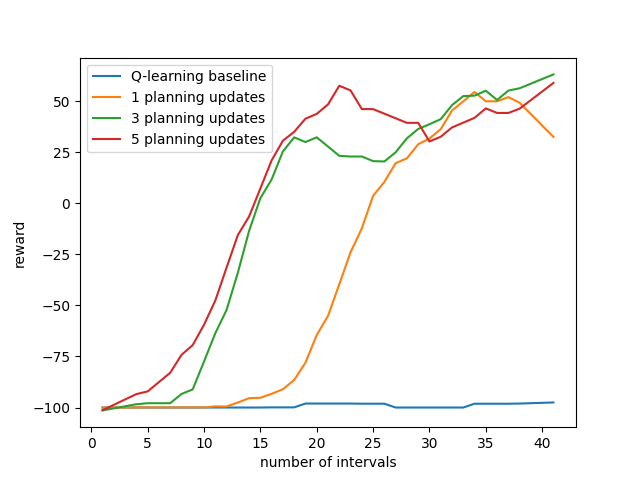
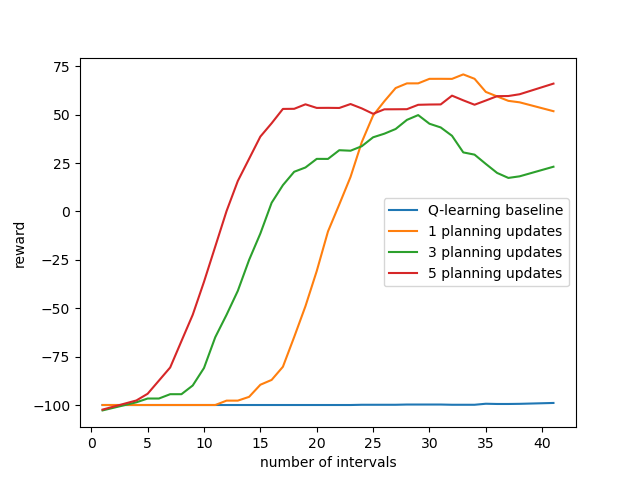
sweeper done

diff --git a/MBRLAgents.py b/MBRLAgents.py
@@ -10,7 +10,9 @@ import numpy as np
 from queue import PriorityQueue
 from MBRLEnvironment import WindyGridworld
 
+
 class DynaAgent:
+
 
     def __init__(self, n_states, n_actions, learning_rate, gamma):
         self.n_states = n_states
@@ -22,7 +24,7 @@ class DynaAgent:
         self.means = np.zeros((n_states,n_actions))
         self.transition_counts = np.zeros((n_states,n_actions,n_states))
         self.reward_sums = np.zeros((n_states,n_actions,n_states))
-        
+       
     def select_action(self, s, epsilon):
         # TO DO: Change this to e-greedy action selection
         if np.random.rand() > epsilon:
@@ -30,7 +32,7 @@ class DynaAgent:
         else:
             a = np.random.choice(self.n_actions)
         return a
-        
+       
     def update(self,s,a,r,done,s_next,n_planning_updates):
         # TO DO: Add Dyna update
         self.transition_counts[s][a][s_next] += 1
@@ -45,13 +47,17 @@ class DynaAgent:
                 s = np.random.choice(self.n_states)
                 a = np.random.choice(self.n_actions)
 
+
             prob_transition = (self.transition_counts[s][a])/(np.sum(self.transition_counts[s][a]))
             s_next = np.random.choice(self.n_states, p=prob_transition)
             r = self.reward_sums[s][a][s_next]/self.transition_counts[s][a][s_next]
 
 
+
+
             self.Q_sa[s,a] += self.learning_rate * (r + self.gamma * np.max(self.Q_sa[s_next]) - self.Q_sa[s,a])
         pass
+
 
     def evaluate(self,eval_env,n_eval_episodes=30, max_episode_length=100):
         returns = []  # list to store the reward per episode
@@ -70,7 +76,9 @@ class DynaAgent:
         mean_return = np.mean(returns)
         return mean_return
 
+
 class PrioritizedSweepingAgent:
+
 
     def __init__(self, n_states, n_actions, learning_rate, gamma, max_queue_size=200, priority_cutoff=0.01):
         self.n_states = n_states
@@ -78,14 +86,15 @@ class PrioritizedSweepingAgent:
         self.learning_rate = learning_rate
         self.gamma = gamma
         self.priority_cutoff = priority_cutoff
-        
+       
         self.Q_sa = np.zeros((n_states,n_actions))
         # TO DO: Initialize count tables, reward sum tables, priority queue
-        self.means = np.zeros((n_states,n_actions))
+        #self.means = np.zeros((n_states,n_actions))
         self.transition_counts = np.zeros((n_states,n_actions,n_states))
         self.reward_sums = np.zeros((n_states,n_actions,n_states))
-        self.queue = PriorityQueue(maxsize=max_queue_size)
-        
+        self.queue = PriorityQueue()
+        #self.PQ = PriorityQueue()
+       
     def select_action(self, s, epsilon):
         # TO DO: Change this to e-greedy action selection
         if np.random.rand() > epsilon:
@@ -93,43 +102,75 @@ class PrioritizedSweepingAgent:
         else:
             a = np.random.choice(self.n_actions)
         return a
-        
+       
     def update(self,s,a,r,done,s_next,n_planning_updates):
-        
+       
         # TO DO: Add Prioritized Sweeping code
-        
+        #counter = 0
         # Helper code to work with the queue
         # Put (s,a) on the queue with priority p (needs a minus since the queue pops the smallest priority first)
-        # self.queue.put((-p,(s,a))) 
+        # self.queue.put((-p,(s,a)))
         # Retrieve the top (s,a) from the queue
         # _,(s,a) = self.queue.get() # get the top (s,a) for the queue
+        
+        # not working yet
+        # self.transition_counts[s][a][s_next] += 1
+        # self.reward_sums[s][a][s_next] += r
+        # prioriri =abs(r + (self.gamma * np.argmax(self.Q_sa[s_next]) - self.Q_sa[s,a]))
+        # if prioriri > self.priority_cutoff:
+        #     self.queue.put((-prioriri,(s,a)))
+        # #print(self.queue.qsize())
+        # for k in range(n_planning_updates):
+        #     if self.queue.empty():
+        #         break
+        #     _,(s_q,a_q) = self.queue.get()
+        #     prob_transition = (self.transition_counts[s][a])/(np.sum(self.transition_counts[s][a]))
+        #     s_next = np.random.choice(self.n_states, p=prob_transition)
+        #     r_new = self.reward_sums[s][a][s_next]/self.transition_counts[s][a][s_next]
+        #     self.Q_sa[s_q,a_q] += self.learning_rate * (r_new + self.gamma * np.argmax(self.Q_sa[s_next]) - self.Q_sa[s_q,a_q])
+        #     # find previous states and actions that lead to s_next
+        #     indices = np.where(self.transition_counts[:,:,s_q] > 0)
+        #     p_state_action_pairs = list(zip(indices[0], indices[1]))
+        #     for p_state, p_action in p_state_action_pairs:
+        #         #print(f"State: {p_state}, Action: {p_action}")
+        #         # if self.transition_counts[p_state][p_action][s_q]==0:
+        #         #     counter+=1
+        #         #     print("warnign!")#continue
+        #         r_bar = (self.reward_sums[p_state][p_action][s_q]/self.transition_counts[p_state][p_action][s_q])
+        #         prioriri1 = abs(r_bar + self.gamma * np.argmax(self.Q_sa[s_q]) - self.Q_sa[p_state,p_action])
+        #         if prioriri1 > self.priority_cutoff:
+        #             self.queue.put((-prioriri1,(p_state,p_action)))  
+        #print("Kaahrizmah, baby")
+        #print(counter)
+       
+        #works
         self.transition_counts[s][a][s_next] += 1
         self.reward_sums[s][a][s_next] += r
-        prioriri =abs((r + self.gamma * np.argmax(self.Q_sa[s_next]) - self.Q_sa[s,a]))
-        if prioriri > self.priority_cutoff:
-            self.queue.put((-prioriri,(s,a)))
-        #print(self.queue.qsize())
+        p = np.abs(r+(self.gamma*np.max(self.Q_sa[s_next])-self.Q_sa[s][a]))
+        if p > self.priority_cutoff:
+            self.queue.put((-p,(s,a)))
+        
         for k in range(n_planning_updates):
             if self.queue.empty():
                 break
-            _,(s,a) = self.queue.get()
-            prob_transition = (self.transition_counts[s][a])/(np.sum(self.transition_counts[s][a]))
-            s_next = np.random.choice(self.n_states, p=prob_transition)
-            r = self.reward_sums[s][a][s_next]/self.transition_counts[s][a][s_next]
-            self.Q_sa[s,a] += self.learning_rate * (r + self.gamma * np.argmax(self.Q_sa[s_next]) - self.Q_sa[s,a])
-            # find previous states and actions that lead to s_next
-            indices = np.where(self.transition_counts[:,:,s_next] > 0)
-            p_state_action_pairs = list(zip(indices[0], indices[1]))
-            for p_state, p_action in p_state_action_pairs: 
-                #print(f"State: {p_state}, Action: {p_action}")
-                if self.transition_counts[p_state][p_action][s]==0: 
-                    continue
-                r_bar = (self.reward_sums[p_state][p_action][s]/self.transition_counts[p_state][p_action][s])
-                prioriri1 = abs(r_bar + self.gamma * np.argmax(self.Q_sa[s]) - self.Q_sa[p_state,p_action])
-                if prioriri1 > self.priority_cutoff:
-                    self.queue.put((-prioriri1,(s,a)))  
-        print("Kaahrizmah, baby")
-        pass
+            _, (s, a) = self.queue.get()
+            prob_trans= self.transition_counts[s][a] / (np.sum(self.transition_counts[s][a]))
+            s_next = np.random.choice(self.n_actions, p=prob_trans)
+            r_bar = self.reward_sums[s][a][s_next] / self.transition_counts[s][a][s_next]
+            r = r_bar
+            self.Q_sa[s][a] = self.Q_sa[s][a] + self.learning_rate*(r + self.gamma * np.max(self.Q_sa[s_next]) - self.Q_sa[s][a])
+            for s_bar, a_bar in zip(*np.nonzero(self.transition_counts[:,:,s])[:2]):
+                r_hat = self.reward_sums[s_bar][a_bar][s] / self.transition_counts[s_bar][a_bar][s]
+                r_bar = r_hat
+                p = np.abs(r_bar+(self.gamma*np.max(self.Q_sa[s])-self.Q_sa[s_bar][a_bar]))
+                if p > self.priority_cutoff:
+                    self.queue.put((-p,(s_bar,a_bar)))
+            
+        
+
+       
+       
+
 
     def evaluate(self,eval_env,n_eval_episodes=30, max_episode_length=100):
         returns = []  # list to store the reward per episode
@@ -148,10 +189,13 @@ class PrioritizedSweepingAgent:
         mean_return = np.mean(returns)
         return mean_return        
 
+
 def test():
+
 
     n_timesteps = 10001 #10001
     gamma = 1.0
+
 
     # Algorithm parameters
     policy = 'ps' # or 'ps' 'dyna
@@ -159,11 +203,12 @@ def test():
     learning_rate = 0.2
     n_planning_updates = 3
 
+
     # Plotting parameters
     plot = True #True  
     plot_optimal_policy = True
     step_pause = 0.0001
-    
+   
     # Initialize environment and policy
     env = WindyGridworld()
     if policy == 'dyna':
@@ -172,33 +217,37 @@ def test():
         pi = PrioritizedSweepingAgent(env.n_states,env.n_actions,learning_rate,gamma) # Initialize PS policy
     else:
         raise KeyError('Policy {} not implemented'.format(policy))
-    
+   
     # Prepare for running
     s = env.reset()  
     continuous_mode = False
-    
+   
     for t in range(n_timesteps):            
         # Select action, transition, update policy
         a = pi.select_action(s,epsilon)
         s_next,r,done = env.step(a)
         pi.update(s=s,a=a,r=r,done=done,s_next=s_next,n_planning_updates=n_planning_updates)
-        
+       
         # Render environment
         if plot:
             env.render(Q_sa=pi.Q_sa,plot_optimal_policy=plot_optimal_policy,
                        step_pause=step_pause)
-            
+           
         #Ask user for manual or continuous execution
-        # if not continuous_mode:
-        #    key_input = input("Press 'Enter' to execute next step, press 'c' to run full algorithm")
-        #    continuous_mode = True if key_input == 'c' else False
+        if not continuous_mode:
+           key_input = input("Press 'Enter' to execute next step, press 'c' to run full algorithm")
+           continuous_mode = True if key_input == 'c' else False
+
 
         # Reset environment when terminated
         if done:
             s = env.reset()
         else:
             s = s_next
-            
-    
+           
+   
 if __name__ == '__main__':
     test()
+
+
+
